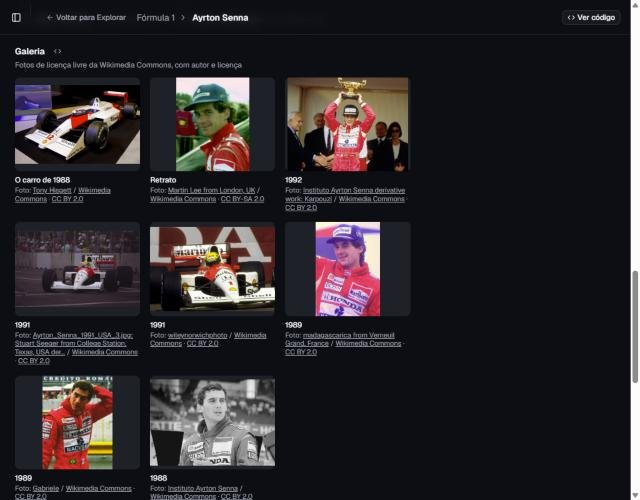
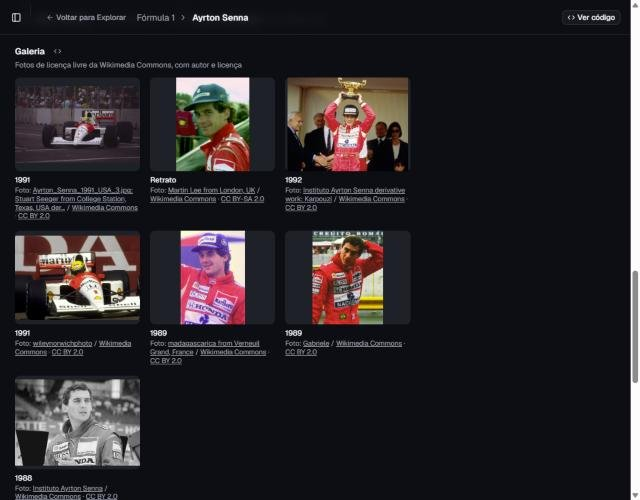
feat(api,demo): curadoria da foto de fundo do piloto (Senna: Phoenix 1991)
- config/assets/commons/destaques.yaml: id do piloto no F1DB → arquivo da Commons já no acervo. O Senna
  fica com a foto de Phoenix 1991, com o #1 de campeão (pedido do Wagner).
- API: RaceCareer.highlight (aditivo) traz a foto curada, achada entre as do piloto e as dos carros dele.
  Teste garante que toda foto curada está no acervo e não foi rejeitada.
- Demo: o heading usa a foto curada antes da regra automática; ela entra primeiro na galeria, com crédito.
- Heading: foto enquadrada um pouco abaixo do centro, esmaecido mais curto no desktop e faixa maior no
  celular, para o carro aparecer.

Changed region(s): [[0.0, 0.15, 0.625, 1.0]]

diff --git a/apps/demo/src/components/sport/driver-hero.tsx b/apps/demo/src/components/sport/driver-hero.tsx
@@ -50,7 +50,7 @@ export async function DriverHero({
         <img
           src={car.url!}
           alt=""
-          className="motion-safe:animate-in motion-safe:fade-in absolute inset-x-0 top-0 -z-20 h-56 w-full object-cover md:inset-0 md:h-full motion-safe:duration-700"
+          className="motion-safe:animate-in motion-safe:fade-in absolute inset-x-0 top-0 -z-20 h-64 w-full object-cover object-[50%_65%] md:inset-0 md:h-full motion-safe:duration-700"
         />
       ) : colors ? (
         <div aria-hidden className="absolute inset-0 -z-20" style={{ background: colors.gradient }} />
@@ -59,13 +59,13 @@ export async function DriverHero({
           direita no desktop */}
       <div
         aria-hidden
-        className="from-background via-background/85 to-background/10 md:from-background md:via-background/80 md:to-background/0 absolute inset-0 -z-10 bg-gradient-to-t from-45% via-70% md:bg-gradient-to-r md:from-20% md:via-50% md:to-90%"
+        className="from-background via-background/85 to-background/10 md:from-background md:via-background/70 md:to-background/0 absolute inset-0 -z-10 bg-gradient-to-t from-35% via-55% md:bg-gradient-to-r md:from-15% md:via-40% md:to-75%"
       />
 
       <div
         className={cn(
           'flex flex-col gap-4 p-4 sm:flex-row sm:items-end md:p-6',
-          car && 'pt-28',
+          car && 'pt-44',
           colors && 'pt-16',
         )}
       >

diff --git a/apps/api/src/teams/career.ts b/apps/api/src/teams/career.ts
@@ -13,6 +13,7 @@ import type { Database } from '@galaxie/db';
 import { constructorProviderIds, loadRaceTeams, RACE_PROVIDERS, type RaceTeams } from '../events/race.js';
 import { pickText } from '../i18n.js';
 import { assetUrl } from '../util.js';
+import { photoHighlights } from './highlights.js';
 import { loadPhotos } from './photos.js';
 
 type SessionRow = {
@@ -229,6 +230,13 @@ export async function loadRaceCareer(
   const photoOwners = [...new Set([participant.id, ...[...constructorsOf.values()].flat()])];
   const photos = await loadPhotos(db, photoOwners, assetsBaseUrl);
   const portrait = (photos.get(participant.id) ?? []).find((p) => p.role === 'portrait') ?? null;
+  // foto de fundo do heading escolhida pela curadoria (por id do F1DB), entre as do piloto e as dos carros dele
+  const highlightFile = constructor
+    ? undefined
+    : [...(keysOf.get(participant.id) ?? [])].map((k) => photoHighlights().get(k)).find(Boolean);
+  const highlight = highlightFile
+    ? ([...photos.values()].flat().find((p) => p.credit.title === highlightFile) ?? null)
+    : null;
   for (const [year, owners] of constructorsOf) {
     let car: Photo | null = null;
     for (const o of owners)
@@ -312,5 +320,6 @@ export async function loadRaceCareer(
     })),
     seasons: list,
     portrait,
+    highlight,
   };
 }

diff --git a/apps/api/src/teams/highlights.test.ts b/apps/api/src/teams/highlights.test.ts
@@ -1,0 +1,28 @@
+import { readFileSync } from 'node:fs';
+import { fileURLToPath } from 'node:url';
+import { describe, expect, it } from 'vitest';
+import { parse } from 'yaml';
+import { photoHighlights } from './highlights.js';
+
+const acervo = parse(
+  readFileSync(fileURLToPath(new URL('../../../../config/assets/commons/f1.yaml', import.meta.url)), 'utf8'),
+) as { entries: { target: string; photos?: { file: string; match?: string }[] }[] };
+
+describe('curadoria da foto de fundo do piloto', () => {
+  const highlights = photoHighlights();
+
+  it('Senna: Phoenix 1991', () => {
+    expect(highlights.get('ayrton-senna')).toBe('File:Ayrton Senna 1991 USA 3 cropped.jpg');
+  });
+
+  it('toda foto curada está no acervo, como foto do piloto ou de um carro, e não foi rejeitada', () => {
+    for (const [driver, file] of highlights) {
+      const entries = acervo.entries.filter(
+        (e) => e.target === `driver/${driver}` || e.target.startsWith('car/'),
+      );
+      const photo = entries.flatMap((e) => e.photos ?? []).find((p) => p.file === file);
+      expect(photo, `${driver}: ${file}`).toBeDefined();
+      expect(photo?.match).not.toBe('rejected');
+    }
+  });
+});

diff --git a/apps/demo/src/lib/driver-hero.ts b/apps/demo/src/lib/driver-hero.ts
@@ -20,18 +20,20 @@ export function heroSeason(career: RaceCareer, curated?: number | null): CareerS
 }
 
 /**
- * Fotos do heading: o carro da temporada marcante (quando há) e o retrato. O heading não mostra crédito: as duas
- * entram na galeria da página, com o crédito da licença.
+ * Fotos do heading: a foto de fundo e o retrato. O fundo é a foto da curadoria (`highlight`, de
+ * config/assets/commons/destaques.yaml) ou, sem ela, o carro da temporada marcante. O heading não mostra crédito:
+ * as duas entram na galeria da página, com o crédito da licença.
  */
 export function heroPhotos(career: RaceCareer): {
   season: CareerSeason | null;
   car: Photo | null;
   portrait: Photo | null;
 } {
-  const season = heroSeason(career);
+  const highlight = career.highlight?.url ? career.highlight : null;
+  const season = (highlight && career.seasons.find((s) => s.year === highlight.season)) || heroSeason(career);
   return {
     season,
-    car: season?.car?.url ? season.car : null,
+    car: highlight ?? (season?.car?.url ? season.car : null),
     portrait: career.portrait?.url ? career.portrait : null,
   };
 }

diff --git a/apps/api/src/teams/highlights.ts b/apps/api/src/teams/highlights.ts
@@ -1,0 +1,25 @@
+import { existsSync, readFileSync } from 'node:fs';
+import { fileURLToPath } from 'node:url';
+import { parse } from 'yaml';
+
+/**
+ * config/assets/commons/destaques.yaml (ou PHOTO_HIGHLIGHTS_PATH): a foto de fundo do heading do piloto escolhida
+ * pela curadoria, por id do F1DB → arquivo da Commons. Lido uma vez; sem o arquivo, nenhuma curadoria.
+ */
+let cached: Map<string, string> | undefined;
+
+export function photoHighlights(): Map<string, string> {
+  if (cached) return cached;
+  const path =
+    process.env.PHOTO_HIGHLIGHTS_PATH ??
+    fileURLToPath(new URL('../../../../config/assets/commons/destaques.yaml', import.meta.url));
+  const doc = existsSync(path)
+    ? (parse(readFileSync(path, 'utf8')) as { drivers?: Record<string, unknown> } | null)
+    : null;
+  cached = new Map(
+    Object.entries(doc?.drivers ?? {}).flatMap(([id, file]) =>
+      typeof file === 'string' && file ? [[id, file] as const] : [],
+    ),
+  );
+  return cached;
+}

diff --git a/apps/demo/src/lib/driver-hero.test.ts b/apps/demo/src/lib/driver-hero.test.ts
@@ -73,6 +73,13 @@ describe('temporada do carro no heading do piloto', () => {
     });
   });
 
+  it('a foto da curadoria vence a regra (Senna: Phoenix 1991)', () => {
+    const phoenix = { url: 'https://cdn/phoenix.jpg', season: 1991, role: 'action' } as Photo;
+    const shots = heroPhotos({ ...senna, portrait: null, highlight: phoenix });
+    expect(shots.car).toBe(phoenix);
+    expect(shots.season?.year).toBe(1991);
+  });
+
   it('anos de carreira', () => {
     expect(careerSpan(senna)).toEqual({ from: 1984, to: 1993 });
     expect(careerSpan(career([season(2026, { races: 0 })]))).toBeNull();

diff --git a/packages/contracts/src/racing.ts b/packages/contracts/src/racing.ts
@@ -142,6 +142,10 @@ export const RaceCareer = z
       .array(CareerSeason)
       .meta({ description: 'Temporada a temporada, da mais recente à primeira.' }),
     portrait: Photo.nullable(),
+    highlight: Photo.nullable().optional().meta({
+      description:
+        'Piloto: foto de destaque escolhida pela curadoria (fundo do heading), entre as fotos dele e as dos carros que pilotou. null sem curadoria.',
+    }),
   })
   .meta({ id: 'RaceCareer' });
 export type RaceCareer = z.infer<typeof RaceCareer>;

diff --git a/docs/ux/navegacao-avaliacao.md b/docs/ux/navegacao-avaliacao.md
@@ -371,8 +371,8 @@ Explorar no celular: **6.100 px → 3.070 px** (9.500 px antes do #200).
 
 **Correção:**
 
-- **Fundo:** o carro da temporada mais marcante cobre o heading, esmaecido para o texto ler nos dois temas: da esquerda para a direita no desktop, de baixo para cima no celular, com o carro numa faixa no topo.
-- **Qual carro:** curadoria, quando houver (ainda não há dado de curadoria). Depois, a temporada de título com mais vitórias, a de mais vitórias e, por fim, o último carro com foto. Uma temporada sem foto é pulada, então o heading melhora sozinho quando o acervo ganha fotos. Senna: McLaren de 1988.
+- **Fundo:** uma foto do carro cobre o heading, esmaecido para o texto ler nos dois temas: da esquerda para a direita no desktop, de baixo para cima no celular, com o carro numa faixa no topo.
+- **Qual foto de fundo:** primeiro a curadoria, em `config/assets/commons/destaques.yaml` (id do piloto no F1DB → arquivo da Commons já no acervo). O Senna tem a de Phoenix 1991, com o #1 de campeão, escolhida pelo Wagner. Sem curadoria vale a regra: carro da temporada de título com mais vitórias, depois a de mais vitórias, depois o último carro com foto. Temporada sem foto é pulada, então o heading melhora sozinho quando o acervo ganha fotos.
 - **Frente:** retrato em destaque, nome, bandeira e país, anos de carreira, títulos mundiais (com os anos) e o seletor de temporada.
 - **Crédito:** o heading não mostra crédito. O carro e o retrato dele entram primeiro na galeria da mesma página, com autor, Commons e licença, então a atribuição continua na página. O carro entra mesmo quando não estava na galeria do piloto.
 - **Sem foto:** sem foto do carro, o fundo é a cor da equipe daquele ano (`colors` novo nas equipes da carreira, aditivo na API). Sem cor e sem foto, o heading fica compacto. Sem retrato, as iniciais.
